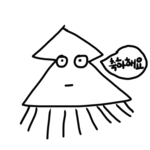
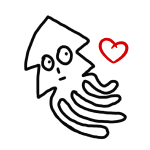
changing squid img

Changed region(s): [[0.1333, 0.1067, 0.9867, 0.9333]]

diff --git a/index.html b/index.html
@@ -44,7 +44,7 @@
             </div>
         </nav>
         <section class="section">
-            <h1 class="first-title">🦑 오징어상 테스트</h1>
+            <h1 class="first-title"><img src ="./img/squid_60.png" width="60"> 오징어상 테스트</h1>
             <h2 class="subtitle">나와 닮은 바다생물들 🐙 🐡 🐬</h2>
         </section>
 
@@ -278,14 +278,15 @@
             </p>
         </div>
     </footer>
-</body> 
+    </body> 
 
 
-    <!-- Copyright (c) 2021 by Aaron Vanston (https://codepen.io/aaronvanston/pen/yNYOXR)
+<!-- Copyright (c) 2021 by Aaron Vanston (https://codepen.io/aaronvanston/pen/yNYOXR)
 
 Permission is hereby granted, free of charge, to any person obtaining a copy of this software and associated documentation files (the "Software"), to deal in the Software without restriction, including without limitation the rights to use, copy, modify, merge, publish, distribute, sublicense, and/or sell copies of the Software, and to permit persons to whom the Software is furnished to do so, subject to the following conditions:
 
 The above copyright notice and this permission notice shall be included in all copies or substantial portions of the Software.
 
 THE SOFTWARE IS PROVIDED "AS IS", WITHOUT WARRANTY OF ANY KIND, EXPRESS OR IMPLIED, INCLUDING BUT NOT LIMITED TO THE WARRANTIES OF MERCHANTABILITY, FITNESS FOR A PARTICULAR PURPOSE AND NONINFRINGEMENT. IN NO EVENT SHALL THE AUTHORS OR COPYRIGHT HOLDERS BE LIABLE FOR ANY CLAIM, DAMAGES OR OTHER LIABILITY, WHETHER IN AN ACTION OF CONTRACT, TORT OR OTHERWISE, ARISING FROM, OUT OF OR IN CONNECTION WITH THE SOFTWARE OR THE USE OR OTHER DEALINGS IN THE SOFTWARE. -->
+
 </html>
